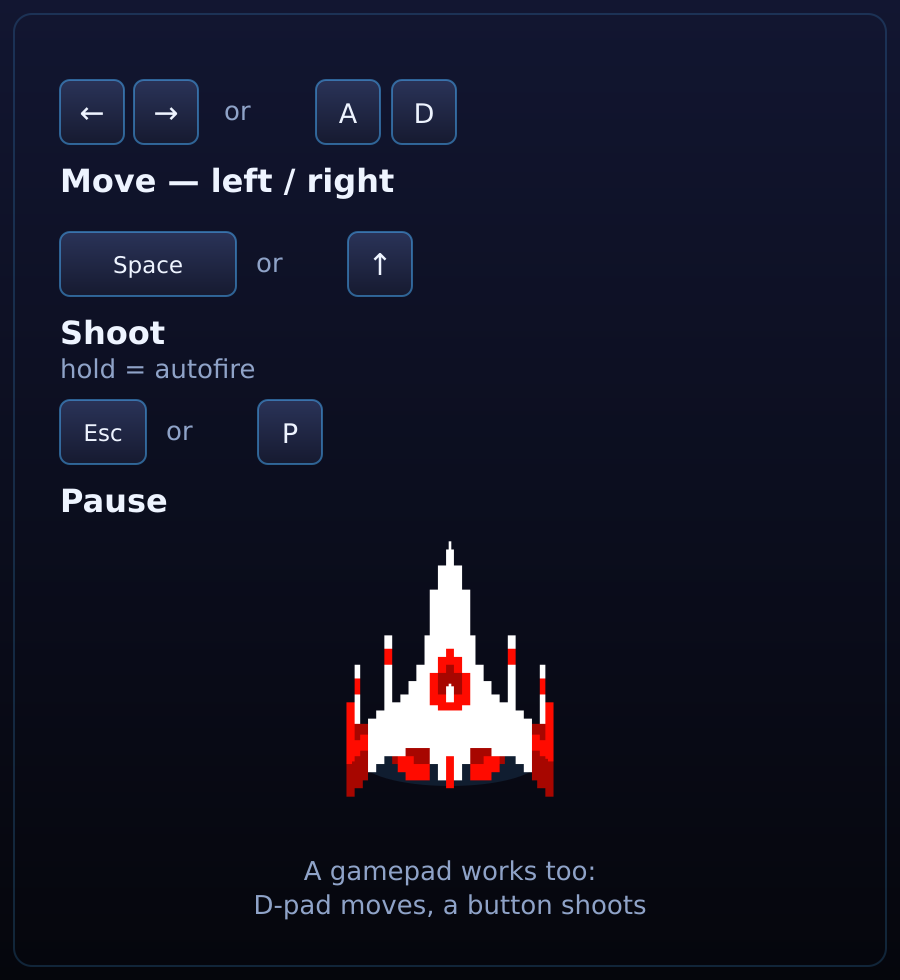
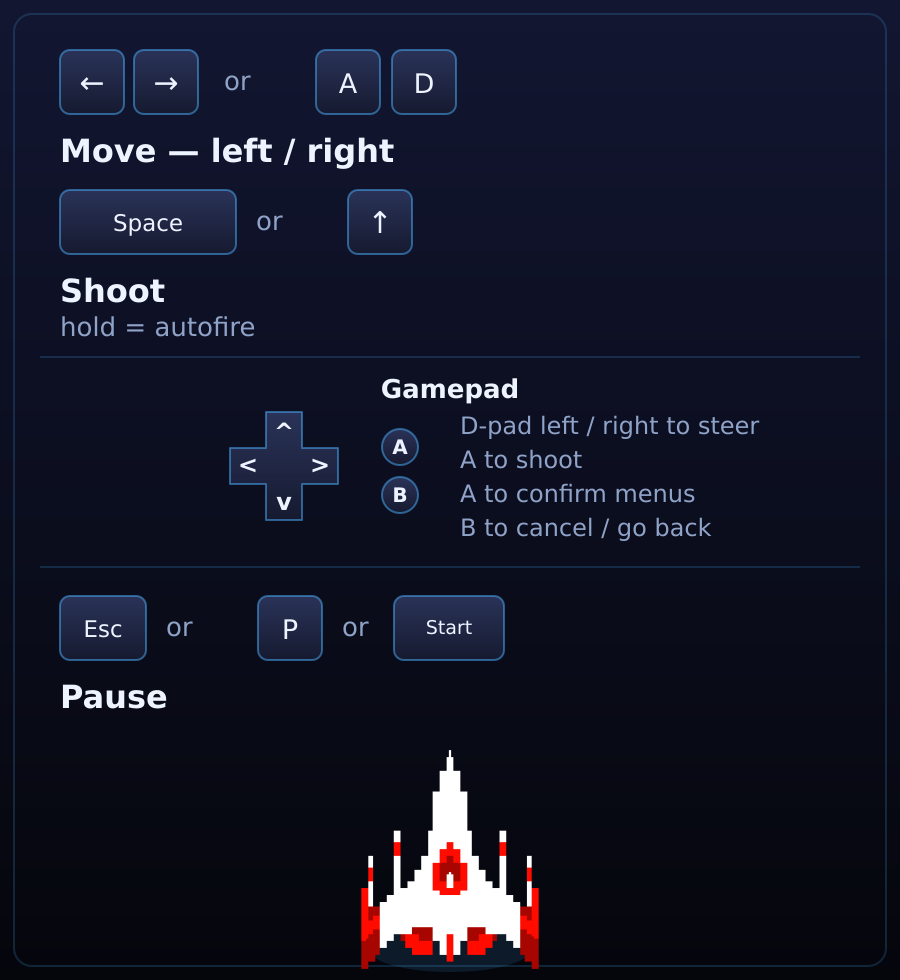
Add full gamepad menu support (D-pad, A/B) - v0.2.0
Ship/shoot controls already had correct device=-1 joypad bindings; only
ui_accept (A) and ui_cancel (B) were missing a joypad binding at all. The
deeper gap was menus.gd's buttons being non-focusable (FOCUS_NONE), which
made keyboard/gamepad menu navigation impossible from the start - buttons
are focusable now, with a themed focus ring, a per-screen default focus,
and B routed to whichever button means "back"/"cancel" on the current
screen. Hall of Fame name entry intercepts ui_accept (LineEdit only submits
on Enter), and the Help screen pages via ui_left/ui_right.

Live RG552 testing (real controller over adb) found and fixed one more bug:
Help defaulted focus to the "<" button, so Godot's own focus-neighbor
navigation ate the first D-pad-right press before it ever reached the
paging handler. Defaulting focus to "Done" (the rightmost control) fixes it.

diff --git a/CLAUDE.md b/CLAUDE.md
@@ -3,7 +3,7 @@
 Ergänzt die übergeordnete `CLAUDE.md` unter
 `~/GodotDev/learn_2d_gamedev_godot_4_0.57.0_linux/`.
 
-**Stand: v0.1.0 (2026-09-12).** Scaffolding + Phasen 1–5 durch. Fertig:
+**Stand: v0.2.0 (2026-09-15).** Scaffolding + Phasen 1–5 durch. Fertig:
 **Formation + Einflug**, **Sturzflüge + Gegnerfeuer** (P1), **Leben / HUD /
 Game-Over** (P2), **Touch + Aspect-Umschaltung + Pause** (P3), **Menüs /
 Settings / Sound / Hall of Fame** (P4), **echte Assets + Boss-Capture** (P5).
@@ -2273,6 +2273,103 @@ Und eigentlich gar keine Touch-Buttons?" — ja, war sie.
   vermerkt, nicht versucht.
 - `arcade-screen1.png`/`arcade-screen2.png` bleiben im Projekt liegen, falls
   ein künftiger Versuch sie wieder braucht.
+
+**Dreißigste Playtest-Runde (2026-09-15): volle Gamepad-Steuerung für Menüs
++ D-Pad/A/B-Support — v0.2.0.** Nach dem Vorbild von pacmans
+„Fix gamepad menu confirm/cancel not working on some controllers (RG552)" +
+„Release v1.2: full gamepad menu support". Bestandsaufnahme zuerst ergab:
+Galaga stand deutlich besser da als pacman ursprünglich — `move_left`/
+`move_right`/`shoot`/`pause` hatten schon korrekte `device=-1`-Bindungen
+(offenbar aus der schon reparierten pacman-Vorlage übernommen), ebenso
+überraschend bereits `ui_left`/`ui_right`/`ui_up`/`ui_down` (Godot-4.7-
+Built-in-Default in dieser Engine-Version, nicht projekteigen gesetzt). Es
+fehlte wirklich nur die Joypad-Bindung für `ui_accept` (A, `button_index=0`)
+und `ui_cancel` (B, `button_index=1`) — per Headless-Skript ergänzt
+(`ProjectSettings.get_setting`/`set_setting` mit frischem Dictionary, nie
+`[input]` von Hand editiert).
+- **Eigentlicher Kernfund**: `menus.gd::_button()` setzte `focus_mode =
+  Control.FOCUS_NONE` auf JEDEM Button — der eigentliche Grund, warum hier
+  vorher überhaupt keine Tastatur-/Gamepad-Menünavigation möglich war (kein
+  Button konnte je Fokus halten, `ui_accept` hat aber nur einen FOKUSSIERTEN
+  Button zum Ziel). Fix: `FOCUS_ALL` (Godots eigener Button-Default) +
+  `UiStyle.style_button()` bekommt einen eigenen „focus"-StyleBox-Override
+  (helleres Cyan, dickerer Rahmen), damit der Default-Fokusring nicht wie
+  Godots nacktes Editor-Theme aussieht, sondern zum Glas-Look passt.
+- **Default-Fokus pro Screen**: neue `Menus::_grab_default_focus()`, von
+  `_swap()` nach jedem Screen-Wechsel aufgerufen — nimmt den ersten
+  sichtbaren, aktivierten fokussierbaren Node in Tree-Reihenfolge (überspringt
+  disabled Buttons, z. B. den gesperrten Leben-Stepper aus Pause/Summary).
+- **B (ui_cancel) generisch verdrahtet**: `_button()` bekommt einen neuen
+  `is_cancel`-Parameter, der `set_meta("is_cancel", true)` setzt — auf allen
+  „Done"/"No"-Buttons (Settings, Sound, Hilfe, Highscores, beide
+  Bestätigungsdialoge). `Menus::_unhandled_input()` sucht bei `ui_cancel` auf
+  dem gerade sichtbaren Screen genau diesen Button und feuert
+  `.pressed.emit()` — unabhängig vom aktuellen Fokus, exakt pacmans Konvention
+  (A bestätigt das Fokussierte, B geht immer zusätzlich zurück, kein
+  Widerspruch).
+- **Hall-of-Fame-Namensfeld**: `LineEdit` sendet `text_submitted` nur bei
+  Enter, nie bei `ui_accept` — `_unhandled_input()` fängt `ui_accept` bei
+  fokussiertem `_name_edit` explizit ab, ruft `_commit_score()` und übergibt
+  danach den Fokus an „Play Again" (`_play_again_btn`, neu benannt/gespeichert)
+  — das Feld verschwindet ja nach dem Commit.
+- **Hilfe-Seiten-Blättern**: `ui_left`/`ui_right` lösen bei sichtbarem
+  Help-Screen `_help_go(-1/1)` aus.
+- **Echter Bug, live auf dem RG552 gefunden** (Nutzer-Report nach dem ersten
+  Test): auf der Hilfe-Seite sprang der ERSTE Druck von D-Pad-rechts nur auf
+  „Done", erst der ZWEITE blätterte tatsächlich. Ursache: ein fokussierter
+  Button „verbraucht" `ui_left`/`ui_right` zuerst für Godots eingebaute
+  Fokus-Nachbar-Navigation (GUI-Input-Phase, läuft VOR `_unhandled_input()`)
+  — landete der Default-Fokus auf „‹" (erster fokussierbarer Node in
+  Tree-Reihenfolge), bewegte der erste Druck nur den Fokus nach rechts
+  (zu „Done", da rechts von „›" kein Nachbar mehr liegt), erst der zweite
+  Druck (jetzt ohne Fokus-Bewegungsziel) erreichte `_help_go()`. Fix:
+  `_open_help()` überschreibt den generischen Default-Fokus explizit auf
+  `_help_done_btn` (neu gespeicherte Referenz) — als rechtester Button hat
+  die eingebaute Navigation dort nichts mehr zu tun, der erste Druck erreicht
+  sofort `_help_go()`. Live erneut bestätigt: blättert jetzt sofort.
+- **Hilfe-Grafik ergänzt**: `assets/help_src/keyboard.svg` (Desktop-Seite
+  „Controls — Keyboard/Gamepad", umbenannt von „Controls — Keyboard") bekommt
+  einen neuen „Gamepad"-Abschnitt — ein zusammenhängendes D-Pad-Kreuz (nicht
+  vier lose Quadrate) + A/B-Kreise, Beschriftung „D-pad left/right to steer" /
+  „A to shoot" / „A to confirm menus" / „B to cancel / go back" — sowie ein
+  drittes „Start"-Tastensymbol neben Esc/P in der Pause-Zeile. Bekannte Lücke:
+  die separate `HELP_PAGES_TOUCH`-Seite („Controls — Touch") hat KEINE
+  Gamepad-Infos — auf einem Touch-Gerät wie dem RG552 (`OS.has_feature
+  ("mobile")` ist dort true) ist im normalen Spielfluss nur die Touch-Seite
+  erreichbar, die neue Gamepad-Seite technisch nie sichtbar. Nicht
+  nachträglich gefixt (vom Nutzer nach Rückfrage nicht verlangt) — als
+  möglicher Folge-Punkt vermerkt, falls gewünscht.
+- **Dauerfeuer per gehaltenem A**: brauchte keine Code-Änderung — `ship.gd`
+  pollt schon `Input.is_action_pressed("shoot")` jeden Frame (dieselbe
+  Technik wie Tastatur/Maus), `shoot`-Action hatte schon eine korrekte
+  Joypad-Bindung. Per Headless-Test verifiziert (`Input.action_press
+  ("shoot")` 2 simulierte Sekunden gehalten → Laser bis zum `_max_lasers`-
+  Deckel nachgefeuert).
+- **Verifikation, zweistufig**: (1) headless — ein `_selftest.gd`-Parse-Check
+  plus ein eigenes Wegwerf-Testskript (`game.tscn` real instanziiert, echte
+  Autoloads) deckt Default-Fokus, alle sechs `is_cancel`-Ziele, Hilfe-Blättern
+  und den HOF-Namensfeld-Intercept über direkte `_unhandled_input()`-Aufrufe
+  mit `InputEventAction`-Objekten ab (13/13 grün) — **wichtige Einschränkung
+  dabei entdeckt**: dieser direkte Aufruf-Stil umgeht Godots eigene
+  GUI-Input-Phase (Fokus-Nachbar-Navigation) komplett, weshalb der obige
+  „Done"-Fokus-Bug beim ersten Anlauf NICHT headless auffiel, sondern erst
+  live. (2) echter Controller-Test auf dem angeschlossenen RG552 (`adb`):
+  Debug-Autoload (`debug_input.gd`, geloggt via `adb logcat | grep DBGINPUT`,
+  nach dem Test wieder entfernt, nicht committed) bestätigte alle rohen
+  `InputEventJoypadButton`-Events UND die daraus resultierenden
+  `action_just_pressed`-Treffer (B→ui_cancel, A→shoot+ui_accept,
+  D-Pad links/rechts→move_*+ui_left/right, D-Pad hoch→ui_up) unter
+  `device=1` (bestätigt: `device=-1` in der Konfiguration war nötig, das
+  Gerät meldet sich nicht als Device 0). Start (`button_index=6`) tauchte im
+  Log nur als rohes Event auf, nie als „action_just_pressed pause" — Ursache
+  identifiziert als Bug im Debug-Skript selbst (kein `process_mode=ALWAYS`,
+  pollt also nicht mehr, sobald Pause den Baum tatsächlich pausiert — genau
+  das Erfolgssignal, nur nicht mehr sichtbar), vom Nutzer direkt am Gerät
+  bestätigt: Start öffnet zuverlässig das Pausenmenü. Kompletter
+  Nutzer-Durchlauf (Start-Menü, Einstellungen, Hilfe blättern,
+  Restart-Bestätigung, Pause) bestätigt „passt".
+- **Version**: `config/version` 0.1.0 → 0.2.0, getaggt `v0.2.0`, Windows-CI
+  darüber angestoßen.
 
 ## Gameplay-Architektur (alles im Code, wie tetris)
 
